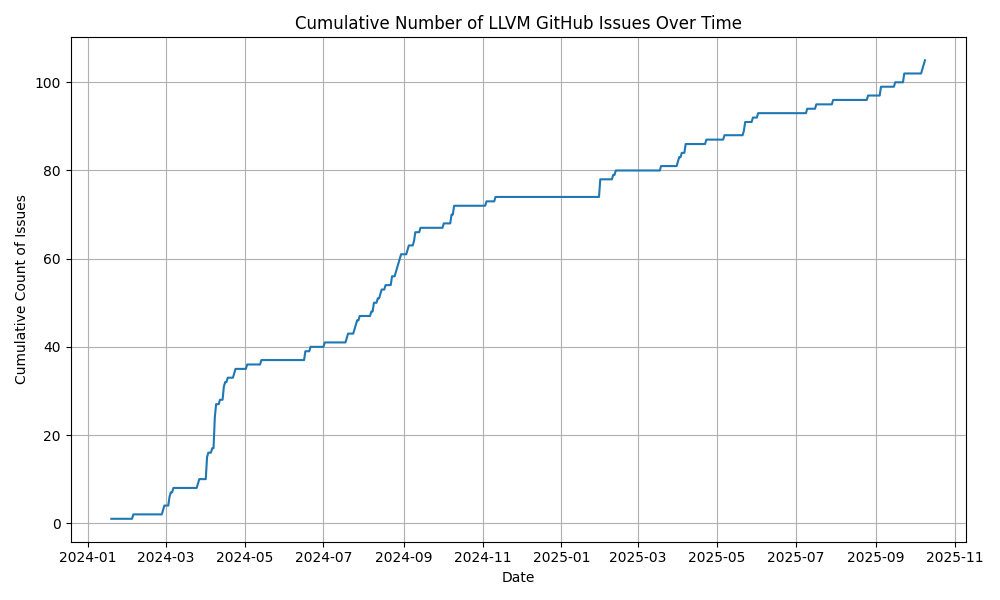
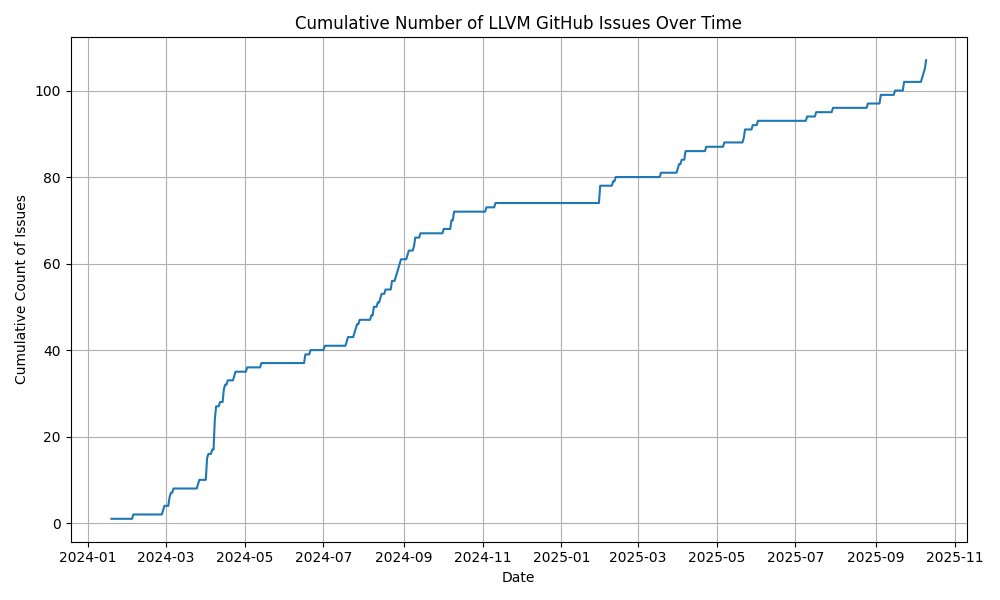
CI: Update README

diff --git a/README.md b/README.md
@@ -367,6 +367,8 @@ More info can be found in [/cvise-passes](/cvise-passes/README)
 1. [160396: [LoopVectorize] Assertion `OpType == Other.OpType && "OpType must match"' failed.](https://github.com/llvm/llvm-project/issues/160396)
 1. [162374: [LoopVectorize] Assertion `OpType == Other.OpType && "OpType must match"' failed.](https://github.com/llvm/llvm-project/issues/162374)
 1. [162688: [LoopVectorize]  Assertion `(BestFactor.Width == LegacyVF.Width || BestPlan.hasEarlyExit() || ... && " VPlan cost model and legacy cost model disagreed"' failed.](https://github.com/llvm/llvm-project/issues/162688)
+1. [162922: [RISC-V][LoopVectorize] Assertion `hasUseList()' failed.](https://github.com/llvm/llvm-project/issues/162922)
+1. [162925: [RISC-V][SLPVectorizer] Assertion `all_of(Bundles, [](const ScheduleBundle *Bundle) { return Bundle->isScheduled(); }) && "must be scheduled at this point"' failed.](https://github.com/llvm/llvm-project/issues/162925)
 
 
 ### Bugs filed over time:
